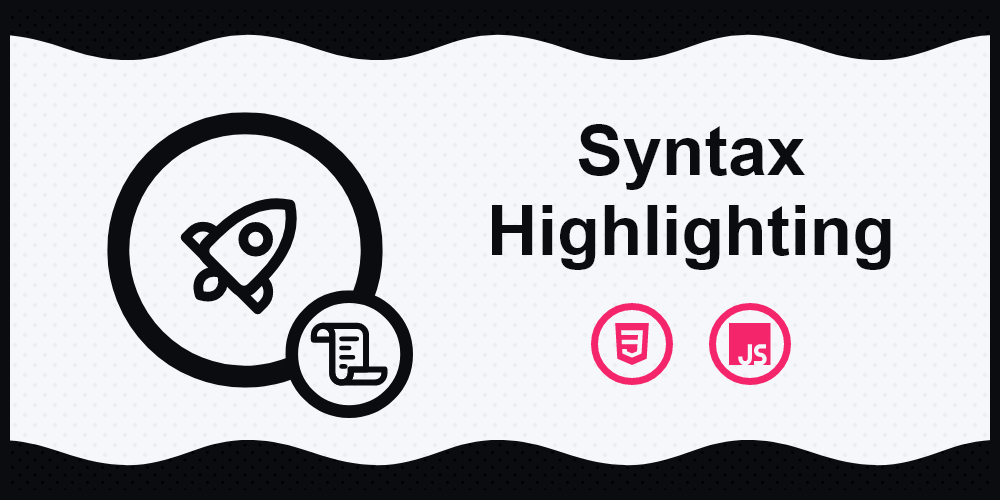
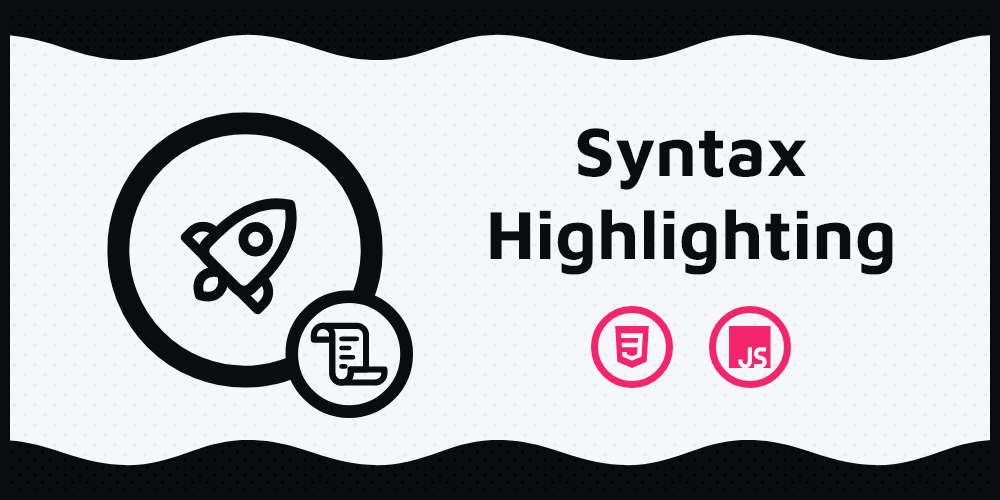
update static images, repurpose sections design

diff --git a/borntofrappe/README.md b/borntofrappe/README.md
@@ -6,23 +6,27 @@ Here, I try to ease the development/design of the website by focusing on indepen
 
 ## TODOS
 
-- [x] add heading component
+- [x] fix static images with correct font
 
-- [x] modify renderer and h{x} headings to add permalink
+- [x] move section design to experiment
 
-- [ ] copy for the different sections of the landing page
+- [ ] redesign landing page
 
-  - [ ] blog
+  - [ ] icons
 
-  - [ ] freecodecamp
+    - [ ] telescope
 
-  - [ ] codepen
+    - [ ] astronaut
 
-  - [x] twitter
+    - [ ] moon
 
-  - [x] github
+    - [ ] capsule
 
-  - [x] almost forgot
+    - [ ] space station
+
+  - [ ] stars and constellations for different sections
+
+  - [ ] planet component for final section
 
 ## Index
 
@@ -46,4 +50,4 @@ Routes of the website. Blog, blog post...
 
 ### Utils
 
-Scripts and helper projects. Frontmatter markdown, icon maker...
+Scripts and helper projects. Markdown parser, meta tags...
